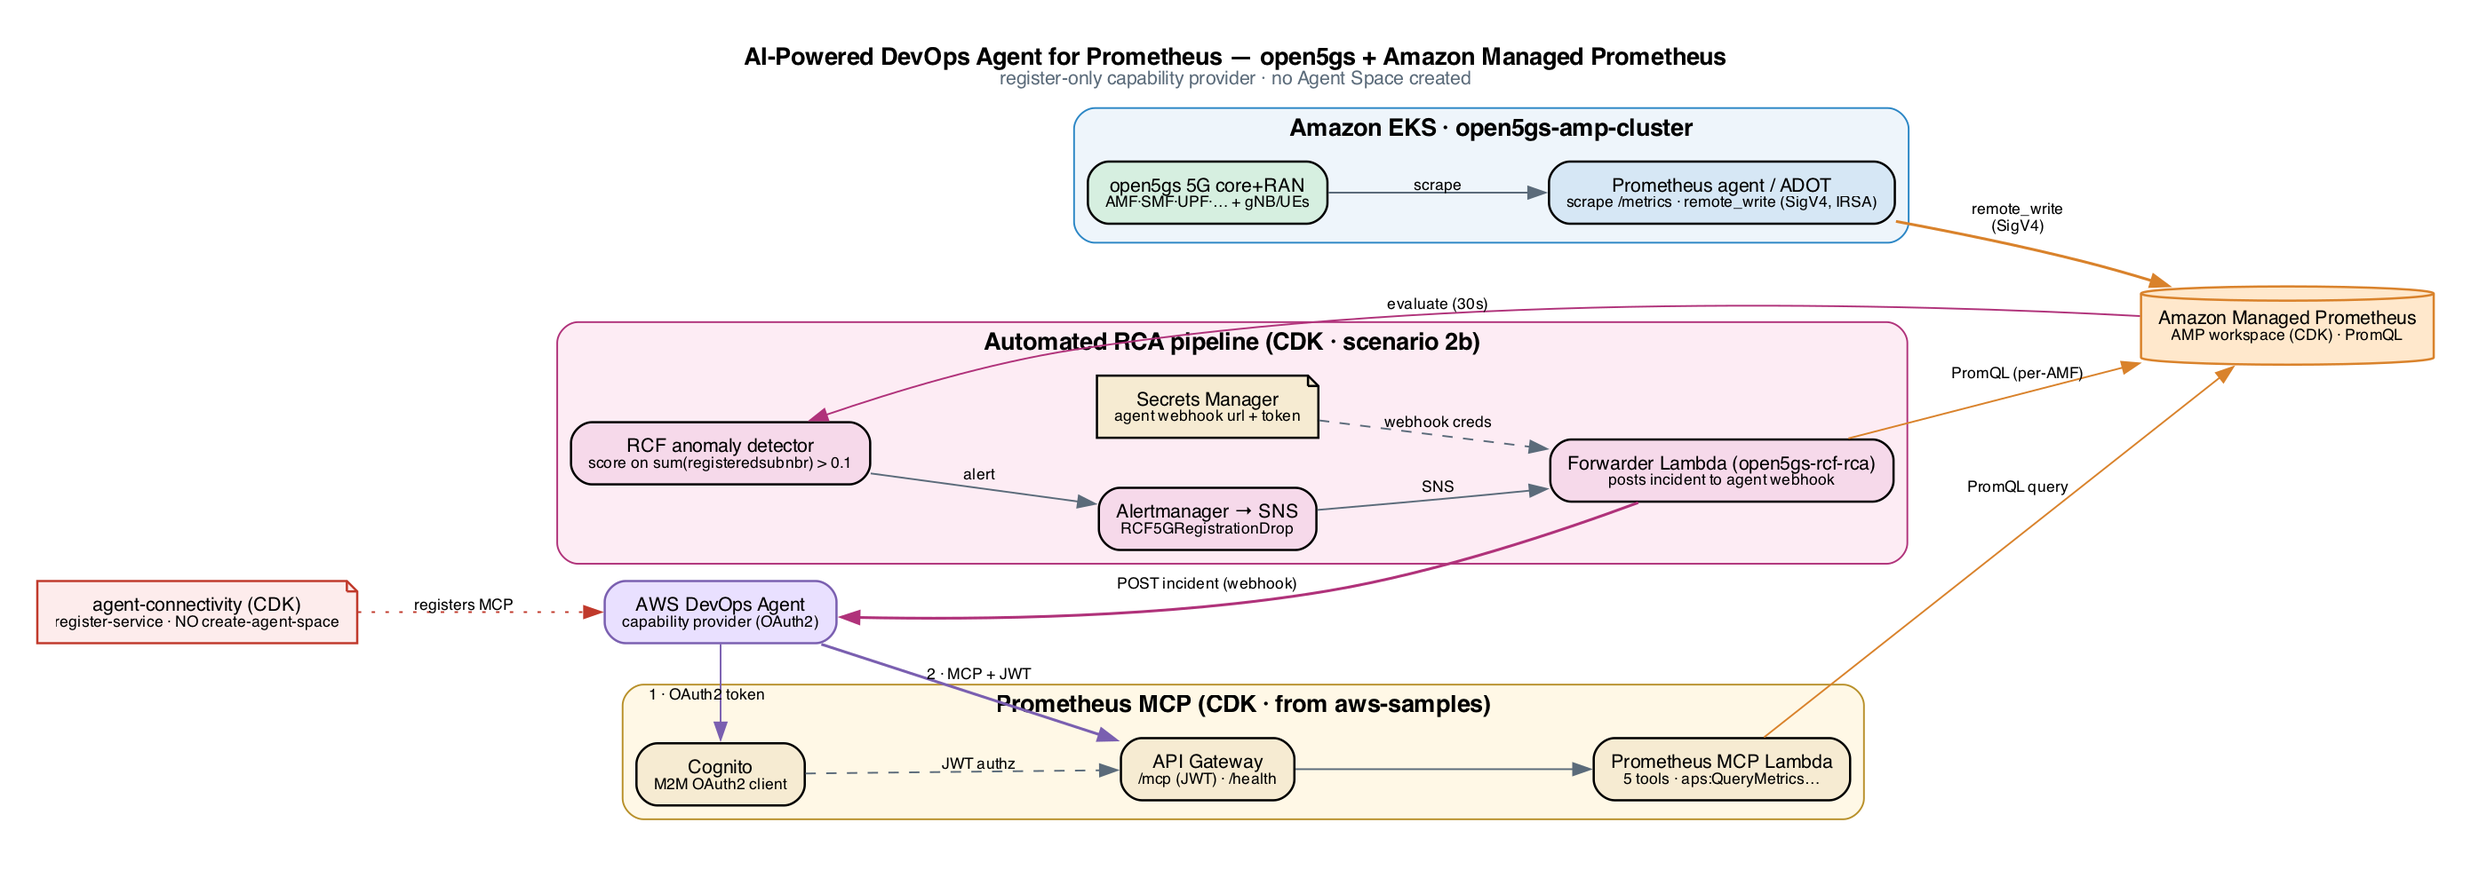
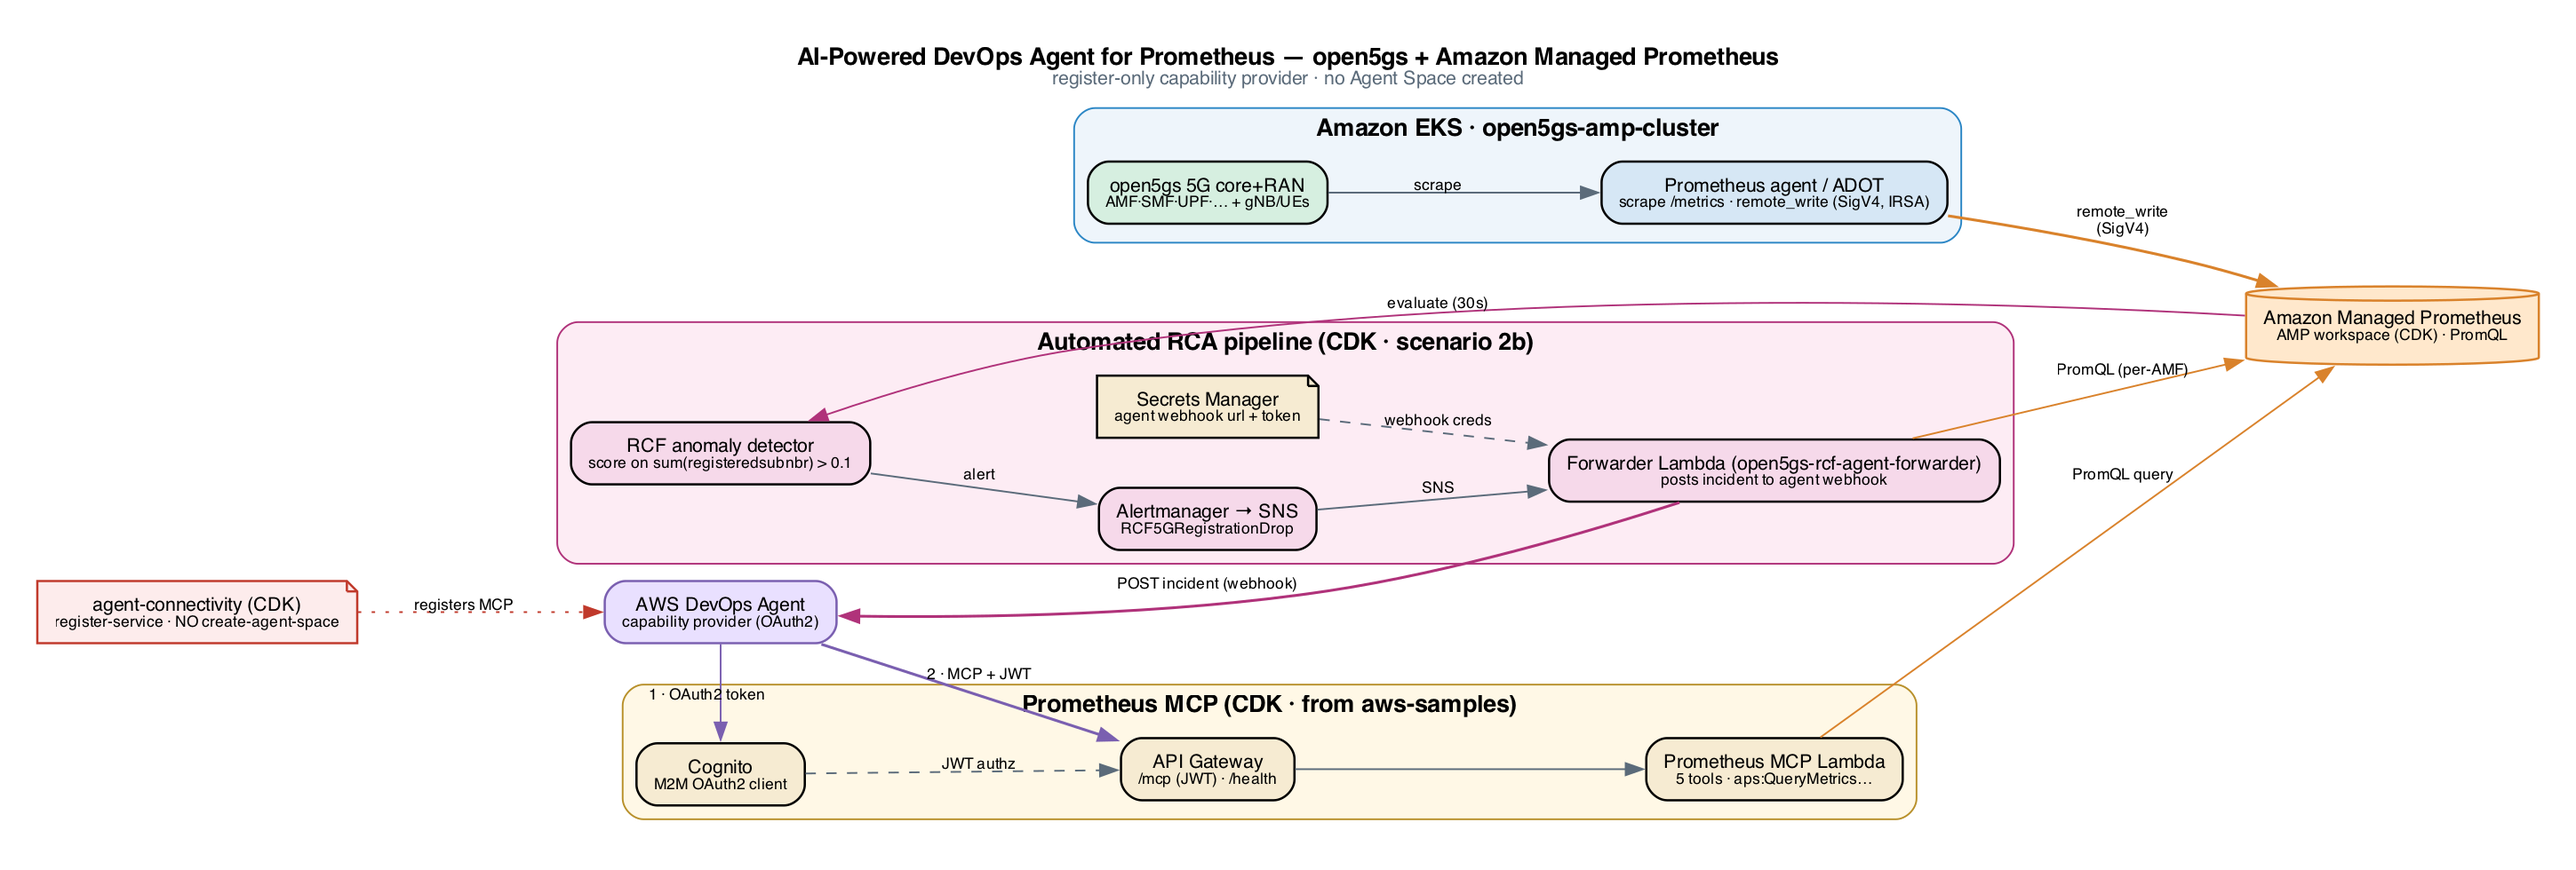
Rename RCA resources to reflect the forwarder role
The Lambda no longer performs root-cause analysis, so the 'rca' naming was
misleading. Renamed throughout:
- Lambda: open5gs-rcf-rca -> open5gs-rcf-agent-forwarder (construct AgentForwarder)
- SNS topic: open5gs-rcf-rca-trigger -> open5gs-rcf-alert-trigger (AlertTriggerTopic)
- Alertmanager receiver: rca-sns -> agent-forwarder-sns
- Asset dir: cdk/lambda-rca -> cdk/lambda-agent-forwarder
- Outputs: RcaLambdaName -> ForwarderLambdaName, RcaTopicArn -> AlertTopicArn
- Updated README, DEMO-RUNBOOK, notebook, deploy/70, and the Graphviz diagram
  (including the /aws/lambda/... log-group references)

The AMP AlertManagerDefinition topic_arn moved in lockstep with the topic rename,
verified in the synthesized template before deploying.

Proven end-to-end after deploy by injecting the real AMF1 fault:
  TRIGGER event from arn:...:open5gs-rcf-alert-trigger (new topic)
  Agent webhook status: 200 (auth=hmac) -> DevOps Agent will investigate
Old Lambda/topic confirmed deleted; fault recovered.

diff --git a/cdk/lib/amp-stack.ts b/cdk/lib/amp-stack.ts
@@ -9,7 +9,7 @@ import * as path from 'path';
 import { Construct } from 'constructs';
 
 /**
- * Amazon Managed Prometheus (AMP) workspace + RCF anomaly detection + automated RCA (scenario 2b).
+ * Amazon Managed Prometheus (AMP) workspace + RCF anomaly detection + DevOps Agent alert forwarding.
  *
  * Resources:
  * - AMP Workspace (metric store for open5gs remote_write + MCP Lambda queries)
@@ -27,16 +27,16 @@ export class AmpStack extends cdk.Stack {
   public readonly workspaceArn: string;
   public readonly prometheusUrl: string;
   public readonly remoteWriteUrl: string;
-  public readonly rcaTopicArn: string;
+  public readonly alertTopicArn: string;
 
   constructor(scope: Construct, id: string, props?: cdk.StackProps) {
     super(scope, id, props);
 
-    // ─── Automated-RCA config (2b) ───
+    // ─── Alert-forwarding config ───
     // Fixed SNS topic name so the workspace Alertmanager definition can reference a
     // deterministic ARN without creating a workspace->topic dependency cycle.
-    const rcaTopicName = 'open5gs-rcf-rca-trigger';
-    const rcaTopicArn = `arn:aws:sns:${this.region}:${this.account}:${rcaTopicName}`;
+    const alertTopicName = 'open5gs-rcf-alert-trigger';
+    const alertTopicArn = `arn:aws:sns:${this.region}:${this.account}:${alertTopicName}`;
     // Optional env-var fallback: `cdk deploy -c devopsAgentWebhookUrl=https://...` (no auth token).
     // Preferred path is the Secrets Manager secret below (supports a token, no redeploy to rotate).
     const devopsAgentWebhookUrl = (this.node.tryGetContext('devopsAgentWebhookUrl') as string) || '';
@@ -44,15 +44,15 @@ export class AmpStack extends cdk.Stack {
     // Alertmanager config: route every firing alert (only RCF5GRegistrationDrop exists) to SNS.
     const alertManagerConfig = `alertmanager_config: |
   route:
-    receiver: 'rca-sns'
+    receiver: 'agent-forwarder-sns'
     group_by: ['alertname']
     group_wait: 30s
     group_interval: 1m
     repeat_interval: 5m
   receivers:
-    - name: 'rca-sns'
+    - name: 'agent-forwarder-sns'
       sns_configs:
-        - topic_arn: ${rcaTopicArn}
+        - topic_arn: ${alertTopicArn}
           sigv4:
             region: ${this.region}
           subject: 'RCF 5G registration anomaly'
@@ -108,20 +108,20 @@ export class AmpStack extends cdk.Stack {
       data: alertRulesYaml,
     });
 
-    // ─── Automated RCA pipeline (2b): SNS topic -> Lambda bridge ───
-    const rcaTopic = new sns.Topic(this, 'RcaTriggerTopic', {
-      topicName: rcaTopicName,
-      displayName: 'open5gs RCF RCA trigger',
+    // ─── Alert-forwarding pipeline: SNS topic -> forwarder Lambda ───
+    const alertTopic = new sns.Topic(this, 'AlertTriggerTopic', {
+      topicName: alertTopicName,
+      displayName: 'open5gs RCF alert trigger',
     });
-    this.rcaTopicArn = rcaTopic.topicArn;
+    this.alertTopicArn = alertTopic.topicArn;
 
     // Allow AMP (this workspace only) to publish alert notifications to the topic.
-    rcaTopic.addToResourcePolicy(new iam.PolicyStatement({
+    alertTopic.addToResourcePolicy(new iam.PolicyStatement({
       sid: 'AllowAMPPublish',
       effect: iam.Effect.ALLOW,
       principals: [new iam.ServicePrincipal('aps.amazonaws.com')],
       actions: ['sns:Publish'],
-      resources: [rcaTopic.topicArn],
+      resources: [alertTopic.topicArn],
       conditions: {
         ArnEquals: { 'aws:SourceArn': ws.attrArn },
         StringEquals: { 'aws:SourceAccount': this.account },
@@ -138,12 +138,12 @@ export class AmpStack extends cdk.Stack {
       secretStringValue: cdk.SecretValue.unsafePlainText(JSON.stringify({ url: '', token: '' })),
     });
 
-    // RCA bridge Lambda (dependency-free: bundled botocore SigV4 + urllib).
-    const rcaFn = new lambda.Function(this, 'RcaBridge', {
-      functionName: 'open5gs-rcf-rca',
+    // Agent-forwarder Lambda (dependency-free: bundled boto3 + urllib).
+    const forwarderFn = new lambda.Function(this, 'AgentForwarder', {
+      functionName: 'open5gs-rcf-agent-forwarder',
       runtime: lambda.Runtime.PYTHON_3_12,
       handler: 'handler.handler',
-      code: lambda.Code.fromAsset(path.join(__dirname, '../lambda-rca')),
+      code: lambda.Code.fromAsset(path.join(__dirname, '../lambda-agent-forwarder')),
       timeout: cdk.Duration.seconds(30),
       memorySize: 256,
       description: 'Forwards the RCF alert to the AWS DevOps Agent webhook (URL/token from Secrets Manager); the agent performs the investigation',
@@ -154,10 +154,10 @@ export class AmpStack extends cdk.Stack {
     });
 
     // Pure forwarder: no AMP access needed — it only reads the webhook secret at runtime.
-    agentSecret.grantRead(rcaFn);
+    agentSecret.grantRead(forwarderFn);
 
     // SNS -> Lambda (LambdaSubscription adds the invoke permission automatically).
-    rcaTopic.addSubscription(new subscriptions.LambdaSubscription(rcaFn));
+    alertTopic.addSubscription(new subscriptions.LambdaSubscription(forwarderFn));
 
     // ─── Outputs ───
     new cdk.CfnOutput(this, 'WorkspaceId', { value: this.workspaceId });
@@ -165,8 +165,8 @@ export class AmpStack extends cdk.Stack {
     new cdk.CfnOutput(this, 'PrometheusQueryUrl', { value: this.prometheusUrl });
     new cdk.CfnOutput(this, 'RemoteWriteUrl', { value: this.remoteWriteUrl });
     new cdk.CfnOutput(this, 'RcfDetectorAlias', { value: '5g-registered-subscribers' });
-    new cdk.CfnOutput(this, 'RcaTopicArn', { value: rcaTopic.topicArn });
-    new cdk.CfnOutput(this, 'RcaLambdaName', { value: rcaFn.functionName });
+    new cdk.CfnOutput(this, 'AlertTopicArn', { value: alertTopic.topicArn });
+    new cdk.CfnOutput(this, 'ForwarderLambdaName', { value: forwarderFn.functionName });
     new cdk.CfnOutput(this, 'AgentWebhookSecretName', { value: agentSecret.secretName });
     new cdk.CfnOutput(this, 'DevopsAgentWebhook', {
       value: 'fill via deploy/70-wire-agent-webhook.sh (Secrets Manager: open5gs/devops-agent/webhook)',

diff --git a/cdk/notebook/generate_notebook.py b/cdk/notebook/generate_notebook.py
@@ -186,7 +186,7 @@ So the anomaly **automatically launches an AI investigation**, wire the DevOps A
    - **API key** — sent as `Authorization: Bearer <secret>`.
    Copy the **webhook URL** and the **secret** (the secret is shown only once).
 
-Paste those two values into the next cell, set the matching auth type, then run the **wiring cell**. The forwarder Lambda (`open5gs-rcf-rca`) reads them from Secrets Manager **at runtime**, so the instant RCF fires it POSTs the incident and the agent starts investigating — no redeploy needed.""")
+Paste those two values into the next cell, set the matching auth type, then run the **wiring cell**. The forwarder Lambda (`open5gs-rcf-agent-forwarder`) reads them from Secrets Manager **at runtime**, so the instant RCF fires it POSTs the incident and the agent starts investigating — no redeploy needed.""")
 
 code('''# \u2500\u2500\u2500 PASTE your DevOps Agent webhook details here \u2500\u2500\u2500
 DEVOPS_AGENT_WEBHOOK_URL    = "PASTE_YOUR_WEBHOOK_URL_HERE"
@@ -208,7 +208,7 @@ else:
                                   "token": DEVOPS_AGENT_WEBHOOK_SECRET,
                                   "auth": DEVOPS_AGENT_AUTH}))
     print(f"\u2713 Webhook wired into Secrets Manager ({_SECRET_ID}), auth={DEVOPS_AGENT_AUTH}.")
-    print("  Pipeline armed:  RCF fires \u2192 SNS \u2192 open5gs-rcf-rca Lambda \u2192 POST to your webhook \u2192 DevOps Agent investigates.")''')
+    print("  Pipeline armed:  RCF fires \u2192 SNS \u2192 open5gs-rcf-agent-forwarder Lambda \u2192 POST to your webhook \u2192 DevOps Agent investigates.")''')
 
 # ---- Step 3: fault ----
 md("""## Step 3: Inject Fault (Bad Config Push to AMF1)
@@ -317,7 +317,7 @@ md("""## Step 5: The AWS DevOps Agent Investigates (Automated RCA)
 This is the payoff. The moment the RCF score crossed the threshold in Step 4, the `RCF5GRegistrationDrop`
 alert fired and the pipeline ran **with no human in the loop**:
 
-`RCF alert → AMP Alertmanager → SNS (open5gs-rcf-rca-trigger) → forwarder Lambda (open5gs-rcf-rca) → your DevOps Agent webhook`
+`RCF alert → AMP Alertmanager → SNS (open5gs-rcf-alert-trigger) → forwarder Lambda (open5gs-rcf-agent-forwarder) → your DevOps Agent webhook`
 
 The forwarder Lambda posted the incident to the webhook you wired in **Step 2** — it does **not** investigate
 itself. The **AWS DevOps Agent has already started the full autonomous investigation**: it queries the metrics

diff --git a/README.md b/README.md
@@ -43,8 +43,8 @@ A real [open5gs](https://open5gs.org/) 5G core (2 AMFs, 1 SMF, 4 UPFs, and suppo
 2. kube-prometheus-stack scrapes them and remote-writes to AMP over SigV4 (via an IRSA service account).
 3. An AMP **RCF anomaly detector** scores `sum(fivegs_amffunction_rm_registeredsubnbr)` every 30 seconds.
 4. When the score crosses `0.1`, the `RCF5GRegistrationDrop` alert rule fires.
-5. AMP **Alertmanager** routes the alert to an Amazon **SNS** topic (`open5gs-rcf-rca-trigger`).
-6. The **forwarder Lambda** (`open5gs-rcf-rca`) reads the DevOps Agent webhook URL/token from **AWS Secrets Manager** at runtime and **POSTs the incident to the webhook** (HMAC or API-key auth). It does not query metrics or derive root cause.
+5. AMP **Alertmanager** routes the alert to an Amazon **SNS** topic (`open5gs-rcf-alert-trigger`).
+6. The **forwarder Lambda** (`open5gs-rcf-agent-forwarder`) reads the DevOps Agent webhook URL/token from **AWS Secrets Manager** at runtime and **POSTs the incident to the webhook** (HMAC or API-key auth). It does not query metrics or derive root cause.
 7. The **AWS DevOps Agent** performs the **entire autonomous investigation** — querying AMP through the OAuth2-secured **Prometheus MCP** (API Gateway + Amazon Cognito + Lambda) registered as a capability provider, and inspecting the EKS workload — to pinpoint the failing network function.
 8. An **Amazon SageMaker** notebook drives the end-to-end demo: baseline → wire the agent → inject the fault → observe the anomaly → watch the automated investigation → recover.
 
@@ -167,7 +167,7 @@ Open **SageMaker → Notebook Instances → `open5gs-rcf-anomaly-demo` → Open 
 ./manifests/fault-inject-amf1.sh break
 
 # The RCF alert fires -> the forwarder Lambda POSTs the incident to the DevOps Agent webhook. Watch the Lambda:
-#   aws logs filter-log-events --log-group-name /aws/lambda/open5gs-rcf-rca --start-time <epoch-ms>
+#   aws logs filter-log-events --log-group-name /aws/lambda/open5gs-rcf-agent-forwarder --start-time <epoch-ms>
 #   (look for "Agent webhook status: 2xx")
 
 # Fix it (restores config + restarts the TAC=1 gNBs to re-register)

diff --git a/docs/DEMO-RUNBOOK.md b/docs/DEMO-RUNBOOK.md
@@ -76,13 +76,13 @@ So the anomaly **automatically launches an investigation**, wire the agent first
 ### 4. Watch the automated DevOps Agent investigation
 The fault crosses the RCF threshold and the pipeline runs with **no human in the loop**:
 ```
-RCF5GRegistrationDrop (score > 0.1) → AMP Alertmanager → SNS (open5gs-rcf-rca-trigger)
-  → forwarder Lambda (open5gs-rcf-rca) → your DevOps Agent webhook → autonomous investigation
+RCF5GRegistrationDrop (score > 0.1) → AMP Alertmanager → SNS (open5gs-rcf-alert-trigger)
+  → forwarder Lambda (open5gs-rcf-agent-forwarder) → your DevOps Agent webhook → autonomous investigation
 ```
 ```bash
 kubectl get pods -n open5gs -l app=amf1 -w     # AMF1 → CrashLoopBackOff
 # Confirm the Lambda forwarded the incident (look for "Agent webhook status: 2xx"):
-#   aws logs filter-log-events --log-group-name /aws/lambda/open5gs-rcf-rca --start-time <epoch-ms>
+#   aws logs filter-log-events --log-group-name /aws/lambda/open5gs-rcf-agent-forwarder --start-time <epoch-ms>
 ```
 Then open **DevOps Agent Space → Incidents** — the agent has started investigating and will surface the
 root cause (AMF1 CrashLoopBackOff, missing `time.t3512`). If the webhook isn't wired, the Lambda just
